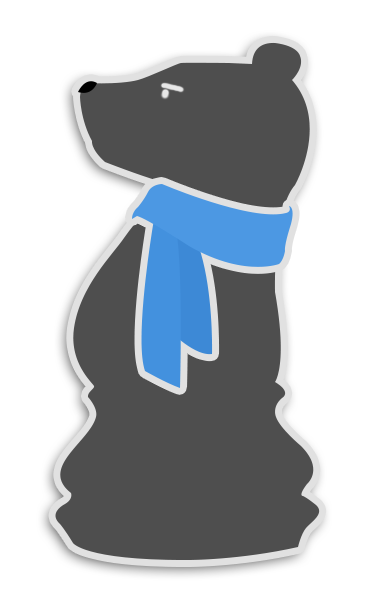
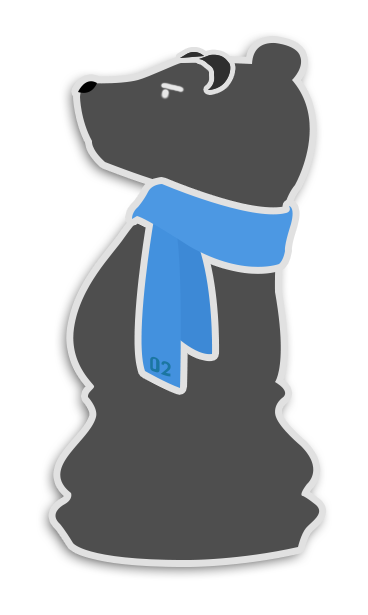
feat: 턴의 변경에 따라 이미지에 불 들어오는 기능 구현

Changed region(s): [[0.4783, 0.0618, 0.6576, 0.1545], [0.3886, 0.587, 0.4783, 0.6179]]

diff --git a/src/main/resources/static/js/board/Turn.js b/src/main/resources/static/js/board/Turn.js
@@ -1,0 +1,51 @@
+const SRC_PATH = "/img/";
+const HIGHLIGHTED_BLACK_BEAR_SRC = `${SRC_PATH}/black-bear-piece-yellow.png`;
+const BLACK_BEAR_SRC = `${SRC_PATH}/black-bear-piece.png`;
+const HIGHLIGHTED_WHITE_BEAR_SRC = `${SRC_PATH}/white-bear-piece-cyan.png`;
+const WHITE_BEAR_SRC = `${SRC_PATH}/white-bear-piece.png`;
+
+export class Turn {
+
+  #turn
+  #whiteBearComponent
+  #blackBearComponent
+
+  constructor(turn) {
+    this.#turn = turn;
+    this.#whiteBearComponent = document.querySelector(".bear-piece.white");
+    this.#blackBearComponent = document.querySelector(".bear-piece.black");
+    this.#turn = turn;
+    this.#setBearImage();
+  }
+
+  get turn() {
+    return this.#turn;
+  }
+
+  changeTurn() {
+    this.#reverseTurn();
+    this.#setBearImage();
+  }
+
+  #isWhite() {
+    return this.#turn == "WHITE";
+  }
+
+  #reverseTurn() {
+    if (this.#isWhite()) {
+      this.#turn = "BLACK";
+      return;
+    }
+    this.#turn = "WHITE";
+  }
+
+  #setBearImage() {
+    if (this.#isWhite()) {
+      this.#whiteBearComponent.src = HIGHLIGHTED_WHITE_BEAR_SRC
+      this.#blackBearComponent.src = BLACK_BEAR_SRC;
+    } else {
+      this.#whiteBearComponent.src = WHITE_BEAR_SRC
+      this.#blackBearComponent.src = HIGHLIGHTED_BLACK_BEAR_SRC;
+    }
+  }
+}

diff --git a/src/main/resources/static/js/board/Board.js b/src/main/resources/static/js/board/Board.js
@@ -1,5 +1,6 @@
 import {Tiles} from "../tile/Tiles.js"
 import {Pieces} from "../piece/Pieces.js"
+import {Turn} from "./Turn.js"
 import {getData, putData} from "../utils/FetchUtil.js"
 
 const url = "http://localhost:8080";
@@ -9,12 +10,14 @@ export class Board {
   #pieces
   #component
   #sourceTile
+  #turn
 
-  constructor(pieceDtos) {
+  constructor(pieceDtos, turn) {
     this.#tiles = new Tiles();
     this.#pieces = new Pieces(pieceDtos);
     this.#component = document.querySelector(".grid");
     this.#sourceTile = null;
+    this.#turn = new Turn(turn);
     this.#addEvent()
   }
 
@@ -146,6 +149,7 @@ export class Board {
       return;
     }
     this.#pieces.move(piece, targetTile)
+    this.#turn.changeTurn();
     if (response["finished"]) {
       // const winner = response["winner"];
       const back = confirm(`게임이 끝났습니다. 확인을 누르면 홈으로 돌아갑니다.`)
@@ -174,4 +178,5 @@ export class Board {
   findPieceBySourcePosition(sourcePosition) {
     return this.#pieces.findBySourcePosition(sourcePosition);
   }
+
 }

diff --git a/src/main/resources/static/js/Game.js b/src/main/resources/static/js/Game.js
@@ -8,9 +8,9 @@ window.onload = async function () {
   const pieces = response["pieceDtos"];
   const host = response["host"];
   const guest = response["guest"];
-  const game = response["game"];
+  const game = response["gameResponseDto"];
 
-  initBoard(pieces);
+  initBoard(pieces, game["turn"]);
   fillInformation(host, guest)
 }
 
@@ -25,8 +25,8 @@ function findGameIdInUri() {
   return gameId;
 }
 
-function initBoard(pieces) {
-  const board = new Board(pieces);
+function initBoard(pieces, turn) {
+  const board = new Board(pieces, turn);
   addEvent(board);
 }
 
